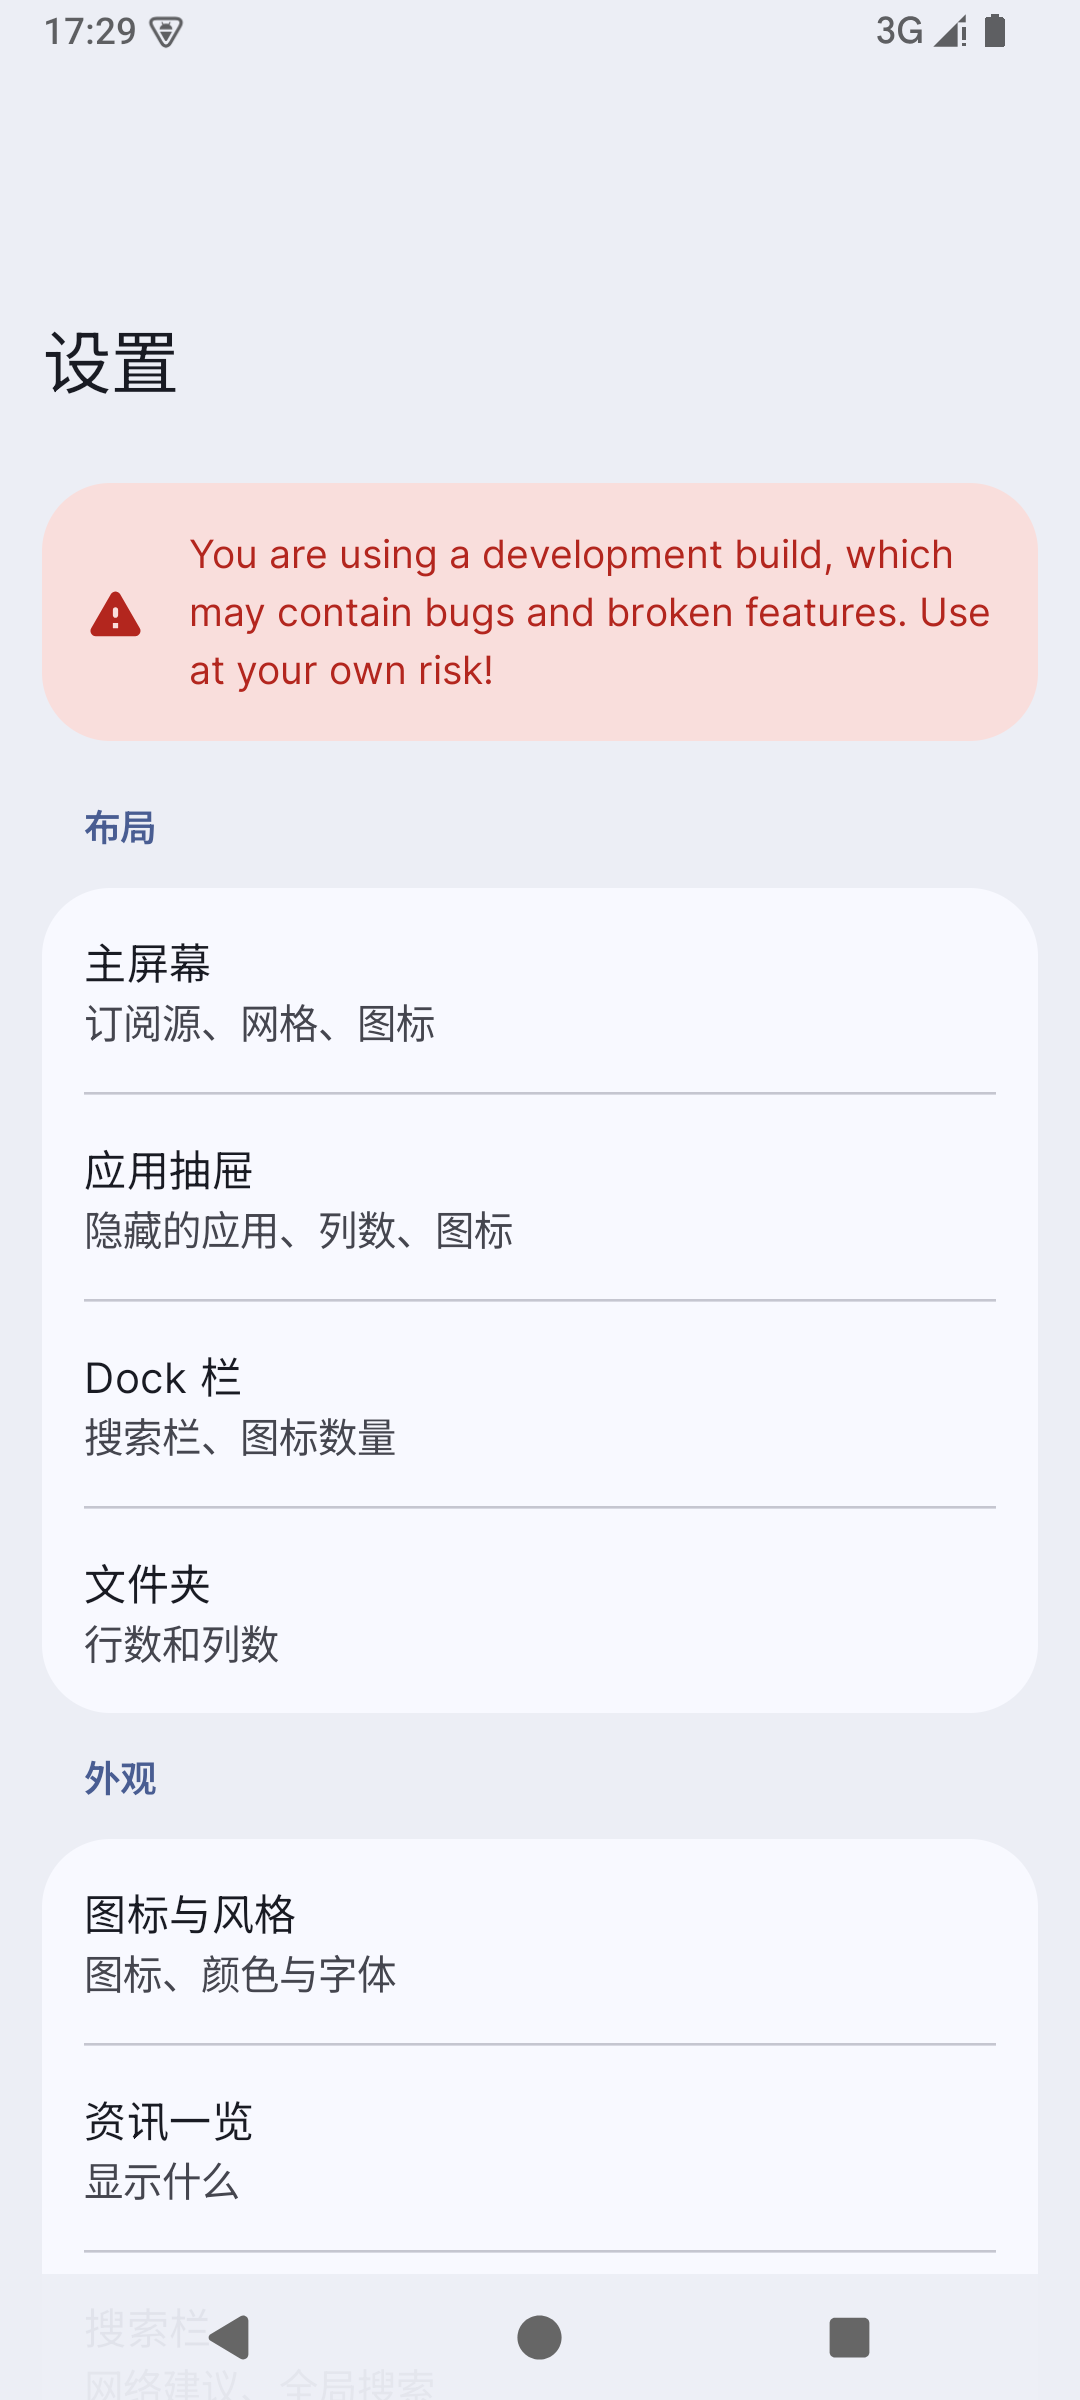
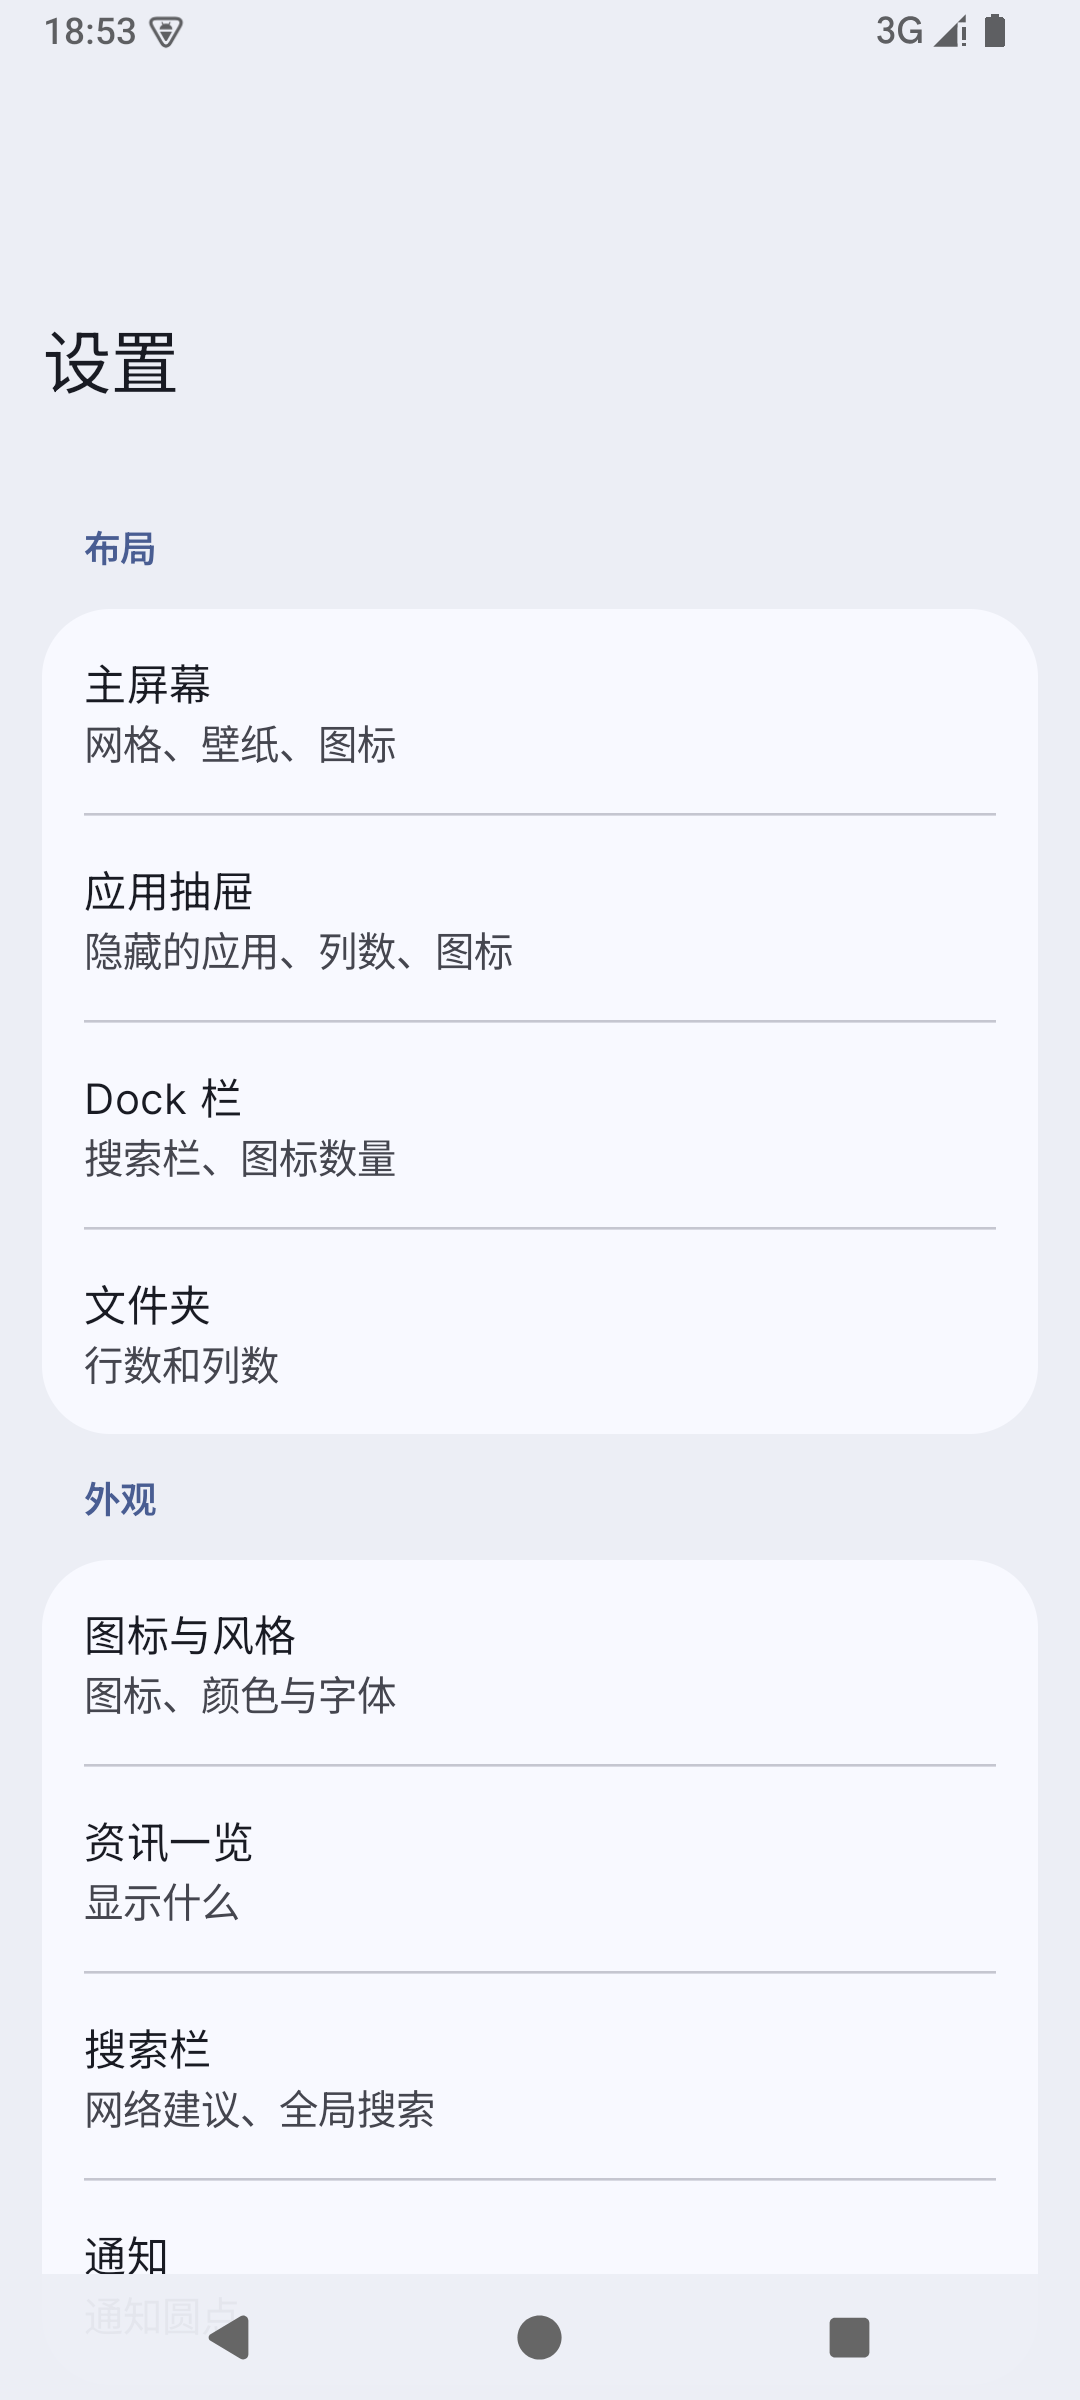
文档: 记录设置二级页整理
ARCHITECTURE §5.10 / §7 / §8，HANDOVER §3.6 / §6.4 / 验收与提交表，CHANGELOG v0.17，更新设置截图。

diff --git a/docs/refactor/HANDOVER.md b/docs/refactor/HANDOVER.md
@@ -239,6 +239,10 @@ adb shell cmd notification allow_listener com.oneui.desktop/com.android.launcher
 - **关于页**（`about/About.kt`）：顶部应用图标 + 名称 + 版本，下面「法律信息」
   卡片放致谢（`AboutLicenses`）与隐私政策，底部一行开源声明。更新检查、
   社区链接和贡献者列表已移除；中文标题用 `legal` → 「法律信息」。
+- **二级页**：主屏幕页顺序改为布局（网格 / 锁定 / 页面指示点）→ 通用（新应用 /
+  无限滚动）→ 订阅 → 样式 → 壁纸 → 弹出菜单 → 状态栏 → 图标 → 小组件 →
+  清空主屏幕；双击手势只在「手势」页出现。应用抽屉页改为布局 → 网格 → 通用 →
+  样式 → 图标 → 高级。设置首页的开发版警告条已移除，缺失的中文文案已补齐。
 
 ### 3.7 图标按压动画
 
@@ -396,7 +400,9 @@ D:\AndroidDevelopment\Sdk\emulator\emulator.exe -avd medium_phone -gpu auto
 - ~~一级页只保留：主屏、应用抽屉、图标、手势、通知、关于~~ ✅ 已覆盖；
   「通知」已从通用页拆成独立页面，「关于」已改成 One UI 卡片
   （`settings-about.png`）。
-- 剩余：二级页（主屏幕 / 应用抽屉 / 手势）逐页清理说明文案与卡片顺序。
+- ~~主屏幕 / 应用抽屉二级页排序与中文文案~~ ✅ 布局与网格提前、清空主屏幕置底、
+  去掉重复双击项、补译缺失文案、移除开发版警告条（§3.6）。
+- 剩余：手势页文案与卡片顺序；应用抽屉的「糖果」实验布局入口是否隐藏。
 
 ### 6.5 动画复刻
 
@@ -425,6 +431,7 @@ D:\AndroidDevelopment\Sdk\emulator\emulator.exe -avd medium_phone -gpu auto
 - [ ] 排序编辑器：设置页拖动应用后返回抽屉顺序一致；杀进程 / 重启后仍保持
 - [ ] 新装应用排在自定义顺序末尾，且保持字母序
 - [ ] 设置首页：布局 / 外观 / 交互 / 关于四张卡片，无公告、无备份 / 实验入口
+- [ ] 设置首页无开发版警告条；主屏幕 / 应用抽屉二级页顺序与中文文案符合 §3.6
 - [ ] 设置 → 通知：授权通知使用权后显示开关、颜色、数量；未授权时只有警告
 - [ ] 设置 → 图标与风格：标题正确，字体 / 图标 / 颜色正常，无通知圆点
 - [ ] 设置 → 关于：图标 + 名称 + 版本 +「法律信息」卡片 + 开源声明，无更新 / 社区入口
@@ -463,6 +470,8 @@ D:\AndroidDevelopment\Sdk\emulator\emulator.exe -avd medium_phone -gpu auto
 
 | 提交 | 内容 |
 | --- | --- |
+| `0cfcc6d` | 设置：二级页顺序与中文文案整理 |
+| `ac15381` | 文档：记录关于页与抽屉错落 |
 | `4980955` | 动画：抽屉打开时网格行级错落 |
 | `9eae104` | 设置：关于页改为 One UI 结构 |
 | `080207a` | 文档：交接文档记录动画提交 |

diff --git a/CHANGELOG.md b/CHANGELOG.md
@@ -220,3 +220,22 @@
 - `ARCHITECTURE.md` 新增 §5.10 第 5 点与 §5.12，更新 §7 截图与验证、§8 里程碑。
 - `HANDOVER.md` 新增 §3.8，补关于页说明、验收清单与最近提交表。
 - 新增截图 `settings-about.png`。
+
+## v0.17 — 设置二级页整理（2026-10-29）
+
+**设置**
+
+- 主屏幕页重排：布局（网格 / 锁定 / 页面指示点）→ 通用（新应用 / 无限滚动）→
+  订阅 → 样式 → 壁纸 → 弹出菜单 → 状态栏 → 图标 → 小组件 → 清空主屏幕。
+- 双击手势与独立「手势」页重复，从主屏幕页移除；「清空主屏幕」移到末尾。
+- 应用抽屉页把「网格」提到「通用」之前，顺序为布局 → 网格 → 通用 → 样式 →
+  图标 → 高级。
+- 设置首页不再显示开发版警告条；主屏幕副标题改为「网格、壁纸、图标」。
+- 补齐中文文案：无限滚动、页面指示点、Material You 弹出菜单、搜索栏独立背景、
+  清空主屏幕、主屏幕操作。
+
+**文档**
+
+- `ARCHITECTURE.md` §5.10 增加二级页整理，§7 增加验证与截图。
+- `HANDOVER.md` §3.6 / §6.4 / 验收清单同步。
+- 新增截图 `settings-home.png`、`settings-app-drawer.png`，更新 `settings-root.png`。

diff --git a/README.md b/README.md
@@ -19,7 +19,7 @@
   行内分组标题可在设置里关闭，只保留索引
 - 自定义排序：设置 → 应用抽屉 → 排序，拖拽应用调整顺序；抽屉里切换模式即时生效
 - 设置首页 One UI 卡片分组（布局 / 外观 / 交互 / 关于），通知独立成页，
-  关于页为图标 + 版本 + 法律信息卡
+  关于页为图标 + 版本 + 法律信息卡；主屏幕 / 应用抽屉二级页已按 One UI 重排
 - 图标按压沿用 One UI 手感：缩小到 0.92、150ms 回弹；抽屉打开时网格行级错落归位
 - 应用抽屉、文件夹、小组件、通知角标、最近任务沿用 Lawnchair
 
